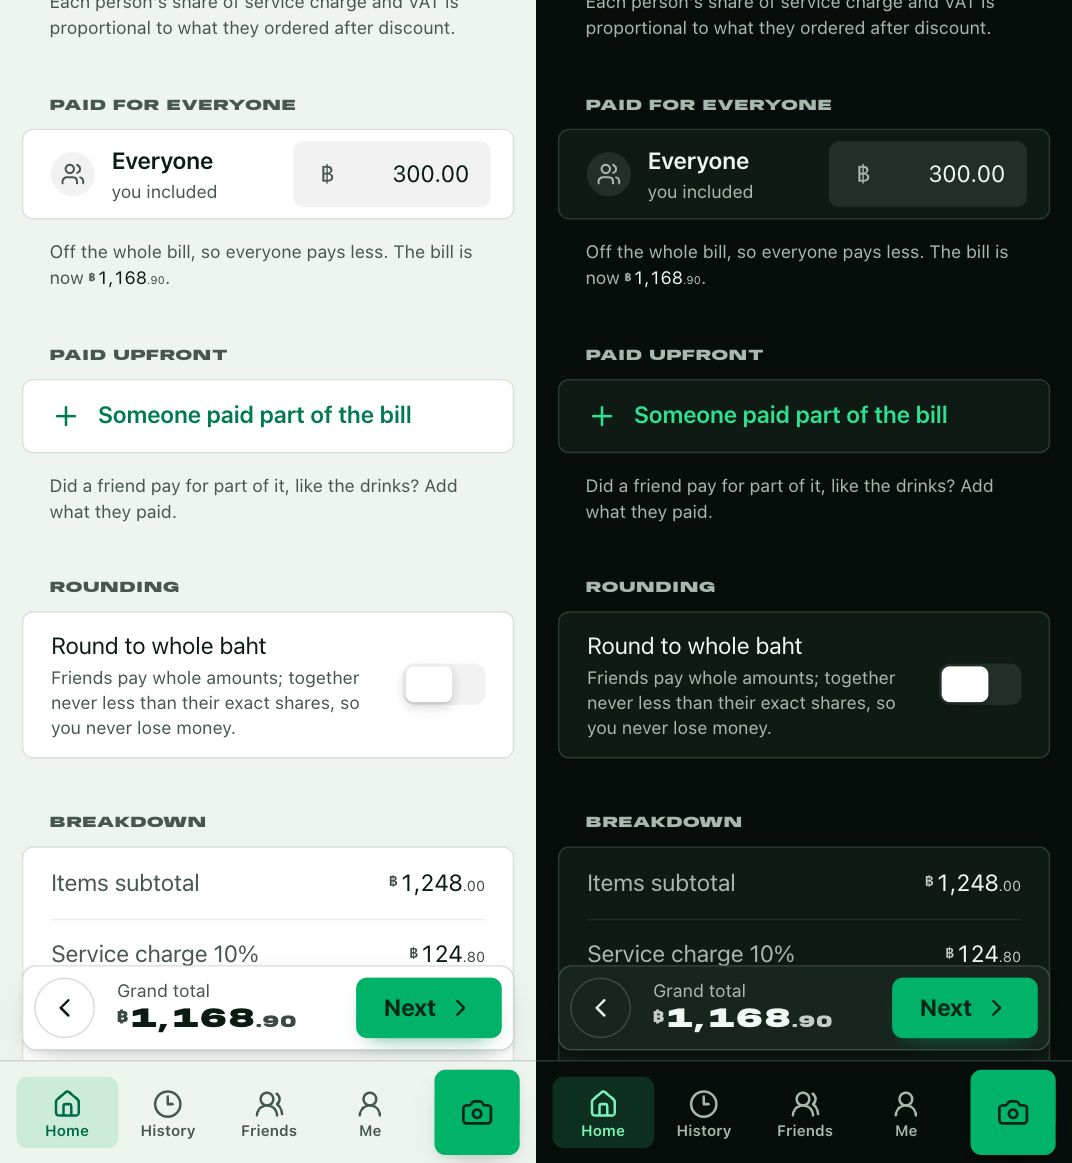
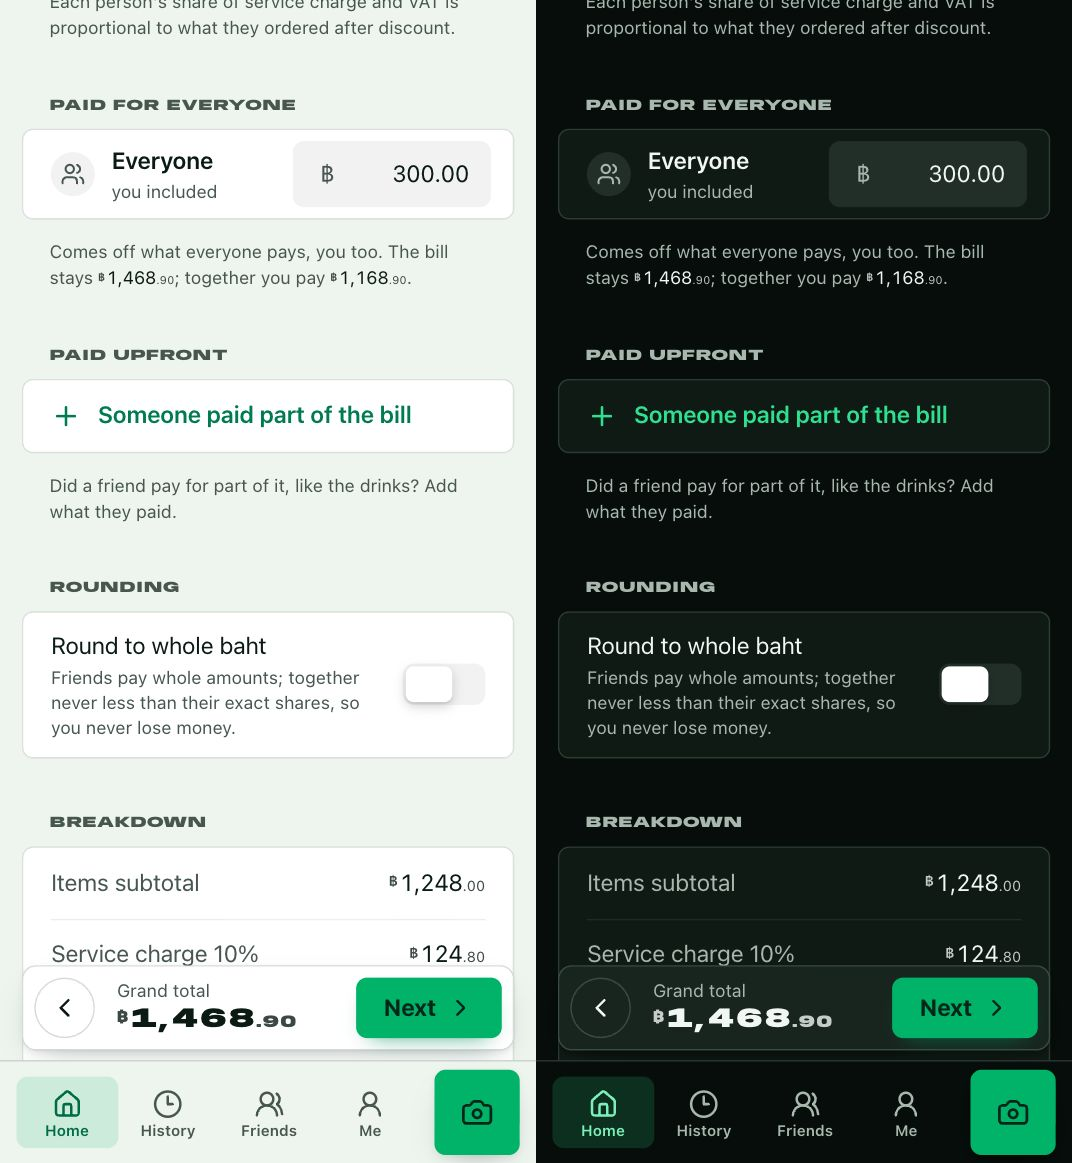
Paid for everyone: bill stays whole, comes off what each person pays (#37)
* Paid for everyone: the bill stays whole; it comes off what each person pays

Like Paid upfront: the grand total (with its service charge and VAT) is
the whole bill, each person's share is worked out from it, then their part
of what was paid for everyone comes off what they pay, the organiser's too.
Paying payers directly and rounding to whole baht take it into account.
README and screenshot updated.

* README: tidy a stray space

---------

diff --git a/src/lib/calc.ts b/src/lib/calc.ts
@@ -24,7 +24,7 @@ export interface CalcInput {
   prepaid?: Prepaid[];
   /** The receipt's printed rounding line, used while the subtotal still matches. */
   receiptRounding?: ReceiptRounding;
-  /** Paid for everyone (deposit, voucher): off the whole bill after service and VAT. */
+  /** Paid for everyone (deposit, voucher): comes off what everyone pays, after their share is worked out. */
   forEveryone?: number;
   /**
    * When an amount doesn't divide evenly, the leftover satang go to the
@@ -101,14 +101,14 @@ export interface PersonResult {
   vat: number;
   /** share of the receipt's own rounding line (usually 0) */
   rounding: number;
-  /** their part of what was paid for everyone */
+  /** their part of what was paid for everyone (comes off what they pay, like `prepaid`) */
   forEveryone: number;
-  /** exact share of the bill (after what was paid for everyone) */
+  /** exact share of the bill */
   total: number;
   /** what they paid towards the bill themselves (friends only; needs an organiser) */
   prepaid: number;
   /**
-   * What they're asked to pay: `total − prepaid`, negative when the organiser
+   * What they're asked to pay: `total − prepaid − forEveryone`, negative when the organiser
    * owes them money back. With rounding on, payers pay whole units (some up,
    * some down) and the organiser's amount is what's left of the bill (never
    * more than their exact share), shown to the nearest whole unit.
@@ -125,7 +125,7 @@ export interface CalcResult {
   vat: number;
   /** the receipt's own rounding line, when used (usually 0) */
   rounding: number;
-  /** paid for everyone, taken off the bill (never more than the bill) */
+  /** paid for everyone (never more than the bill): the bill stays `total`, it comes off what people pay */
   forEveryone: number;
   total: number;
   people: PersonResult[];
@@ -225,10 +225,10 @@ export function calculate(input: CalcInput): CalcResult {
   const vat = input.vat.enabled ? (asPrinted(input.vat) ?? applyBp(discountedSubtotal + service, input.vat.rateBp)) : 0;
   const rounding =
     input.receiptRounding && input.receiptRounding.base === discountedSubtotal ? input.receiptRounding.amount : 0;
-  const gross = discountedSubtotal + service + vat + rounding;
-  // Paid for everyone comes off last, so it doesn't change service or VAT.
-  const forEveryone = Math.max(0, Math.min(input.forEveryone ?? 0, gross));
-  const total = gross - forEveryone;
+  const total = discountedSubtotal + service + vat + rounding;
+  // Paid for everyone doesn't change the bill (or its service and VAT): like
+  // a payment, it comes off what each person pays.
+  const forEveryone = Math.max(0, Math.min(input.forEveryone ?? 0, total));
 
   const n = people.length;
   const personIndex = new Map(people.map((p, i) => [p.id, i]));
@@ -284,7 +284,7 @@ export function calculate(input: CalcInput): CalcResult {
       if (me >= 0) {
         // Everyone's share is an equal split of the grand total with the
         // organiser's the smaller one; the difference goes in their items.
-        const each = allocate(gross, ones, 0, me);
+        const each = allocate(total, ones, 0, me);
         results.forEach((r, i) => {
           const delta = each[i] - (r.discounted + r.service + r.vat + r.rounding);
           r.discounted += delta;
@@ -327,17 +327,14 @@ export function calculate(input: CalcInput): CalcResult {
     }
     results.forEach((r) => (r.total = r.discounted + r.service + r.vat + r.rounding));
     if (forEveryone > 0) {
-      // Everyone's share gets smaller: equally when splitting equally (shares
-      // stay equal), else in proportion to their share. The organiser gets
-      // the bigger part of the money off.
+      // Each person's part: equal when splitting equally (what's left to pay
+      // stays equal), else in proportion to their share. The organiser gets
+      // the bigger part of uneven satang.
       const off =
         mode === "equal"
-          ? allocate(total, equalWeights(n), 0, me).map((net, i) => results[i].total - net)
+          ? allocate(total - forEveryone, equalWeights(n), 0, me).map((left, i) => results[i].total - left)
           : allocate(forEveryone, results.map((r) => Math.max(0, r.total)), 0, -1, me);
-      results.forEach((r, i) => {
-        r.forEveryone = off[i];
-        r.total -= off[i];
-      });
+      results.forEach((r, i) => (r.forEveryone = off[i]));
     }
   }
 
@@ -351,7 +348,9 @@ export function calculate(input: CalcInput): CalcResult {
     }
   }
   const prepaidTotal = payers.reduce((s, r) => s + r.prepaid, 0);
-  for (const r of results) r.payable = r.total - r.prepaid;
+  // What each still owes: their share less what was paid for them (paid for everyone, or upfront).
+  const owes = (r: PersonResult) => r.total - r.prepaid - r.forEveryone;
+  for (const r of results) r.payable = owes(r);
   if (input.roundUp && payers.length > 0) {
     const unit = wholeUnit(input.currency);
     // Split equally: everyone's share is the same whole amount, the
@@ -361,11 +360,8 @@ export function calculate(input: CalcInput): CalcResult {
     const each = mode === "equal" && organiser && unit > 1 ? equalWholeShare(results, unit) : null;
     const whole =
       each !== null
-        ? payers.map((r) => Math.ceil((each - r.prepaid) / unit) * unit)
-        : roundToWholeUnits(
-            payers.map((r) => r.total - r.prepaid),
-            unit,
-          );
+        ? payers.map((r) => Math.ceil((each - r.prepaid - r.forEveryone) / unit) * unit)
+        : roundToWholeUnits(payers.map(owes), unit);
     payers.forEach((r, i) => (r.payable = whole[i]));
     // The organiser paid the rest of the bill: what's left after the friends
     // pay is never more than their exact share (they never lose money). It's
@@ -373,16 +369,18 @@ export function calculate(input: CalcInput): CalcResult {
     if (organiser && each !== null) {
       // Split equally: the organiser's share is the same as everyone's (what
       // they really pay after the friends' payments is never more than that).
-      organiser.payable = each;
+      organiser.payable = each - organiser.forEveryone;
     } else if (organiser) {
-      const left = Math.round((total - prepaidTotal - payers.reduce((s, r) => s + r.payable, 0)) / unit) * unit;
+      // What the organiser paid at the table (the bill less what was already
+      // paid for everyone or upfront) less what the friends pay them.
+      const left = Math.round((total - forEveryone - prepaidTotal - payers.reduce((s, r) => s + r.payable, 0)) / unit) * unit;
       // Friends' rounding up can leave an organiser who ate (almost) nothing
       // slightly ahead; show that as ฿0, not a negative share.
-      organiser.payable = organiser.total >= 0 ? Math.max(0, left) : left || 0;
+      organiser.payable = owes(organiser) >= 0 ? Math.max(0, left) : left || 0;
     }
   }
   const collected = results.reduce((s, r) => s + r.payable, 0);
-  const roundingExtra = payers.reduce((s, r) => s + (r.payable - (r.total - r.prepaid)), 0);
+  const roundingExtra = payers.reduce((s, r) => s + (r.payable - owes(r)), 0);
 
   return {
     lines,

diff --git a/src/lib/calc.test.ts b/src/lib/calc.test.ts
@@ -530,31 +530,48 @@ describe("paid for everyone (deposit, voucher)", () => {
     { id: "mint", name: "Mint" },
     { id: "ploy", name: "Ploy" },
   ];
+  const pays = (r: ReturnType<typeof calculate>) => r.people.map((p) => p.payable);
 
-  it("takes it off everyone's share equally when splitting equally, the organiser's too", () => {
+  it("keeps the bill whole and takes it off what everyone pays, equally when splitting equally, the organiser too", () => {
     const r = calculate(base({ mode: "equal", people: trio, items: [item("set", 120000, [])], forEveryone: 30000 }));
-    expect([r.forEveryone, r.total]).toEqual([30000, 90000]);
-    expect(totals(r)).toEqual([30000, 30000, 30000]);
+    expect([r.total, r.forEveryone]).toEqual([120000, 30000]);
+    expect(totals(r)).toEqual([40000, 40000, 40000]);
     expect(r.people.map((p) => p.forEveryone)).toEqual([10000, 10000, 10000]);
-    expect(r.people.map((p) => p.payable)).toEqual([30000, 30000, 30000]);
+    expect(pays(r)).toEqual([30000, 30000, 30000]);
   });
 
-  it("splits it in proportion to what each person had", () => {
+  it("splits it in proportion to each person's share", () => {
     const its = [item("a", 60000, ["me"]), item("b", 40000, ["mint"]), item("c", 20000, ["ploy"])];
     const r = calculate(base({ people: trio, items: its, forEveryone: 30000 }));
+    expect(totals(r)).toEqual([60000, 40000, 20000]);
     expect(r.people.map((p) => p.forEveryone)).toEqual([15000, 10000, 5000]);
-    expect(totals(r)).toEqual([45000, 30000, 15000]);
-    expect(sum(totals(r))).toBe(r.total);
+    expect(pays(r)).toEqual([45000, 30000, 15000]);
   });
 
-  it("comes off after service and VAT, and never more than the bill", () => {
+  it("leaves service and VAT on the whole bill, and never comes to more than the bill", () => {
     const svc = { enabled: true, rateBp: 1000 };
     const vat = { enabled: true, rateBp: 700 };
     const one = [item("x", 100000, ["me", "mint", "ploy"])];
-    const r = calculate(base({ people: trio, items: one, service: svc, vat, forEveryone: 17700 }));
-    expect([r.service, r.vat, r.forEveryone, r.total]).toEqual([10000, 7700, 17700, 100000]);
+    const r = calculate(base({ people: trio, items: one, service: svc, vat, forEveryone: 30000 }));
+    expect([r.service, r.vat, r.total, r.forEveryone, sum(pays(r))]).toEqual([10000, 7700, 117700, 30000, 87700]);
     const all = calculate(base({ people: trio, items: one, forEveryone: 999999 }));
-    expect([all.forEveryone, all.total, ...totals(all)]).toEqual([100000, 0, 0, 0, 0]);
+    expect([all.forEveryone, all.total, ...pays(all)]).toEqual([100000, 100000, 0, 0, 0]);
+  });
+
+  it("works with Paid upfront: a friend's share less both", () => {
+    const r = calculate(base({ mode: "equal", people: trio, items: [item("set", 120000, [])], forEveryone: 30000, prepaid: [{ personId: "mint", amount: 5000 }] }));
+    expect(pays(r)).toEqual([30000, 25000, 30000]);
+  });
+
+  it("rounds friends to whole baht without the organiser losing money", () => {
+    const its = [item("x", 100000, ["me", "mint", "ploy"])];
+    const r = calculate(base({ people: trio, items: its, forEveryone: 10000, roundUp: true, currency: "THB" }));
+    const owes = r.people.map((p) => p.total - p.forEveryone);
+    r.people.slice(1).forEach((p, i) => {
+      expect(p.payable % 100).toBe(0);
+      expect(p.payable).toBeGreaterThanOrEqual(owes[i + 1] - 99);
+    });
+    expect(r.people[1].payable + r.people[2].payable).toBeGreaterThanOrEqual(owes[1] + owes[2]);
   });
 
   it("gives the organiser the bigger part of uneven satang", () => {

diff --git a/src/components/PersonCard.tsx b/src/components/PersonCard.tsx
@@ -32,8 +32,8 @@ export function PersonCard({
 }) {
   const [open, setOpen] = useState(defaultOpen);
   const toggle = () => setOpen((v) => !v);
-  // What they owe before rounding: their share less anything they paid upfront.
-  const exact = person.total - person.prepaid;
+  // What they owe before rounding: their share less what was paid for everyone and anything they paid upfront.
+  const exact = person.total - person.prepaid - person.forEveryone;
   return (
     // Paid people stay fully visible: the tick and "Paid" say they've paid.
     <li>
@@ -119,16 +119,14 @@ export function PersonCard({
                 v={<Money value={person.rounding} currency={currency} tone={person.rounding < 0 ? "negative" : undefined} />}
               />
             )}
+            {(person.prepaid > 0 || person.forEveryone > 0) && (
+              <Row k="Share" v={<Money value={person.total} currency={currency} />} />
+            )}
             {person.forEveryone > 0 && (
               <Row k="Paid for everyone" v={<Money value={person.forEveryone} currency={currency} tone="negative" />} />
             )}
-            {person.prepaid > 0 && (
-              <>
-                <Row k="Share" v={<Money value={person.total} currency={currency} />} />
-                <Row k="Paid upfront" v={<Money value={person.prepaid} currency={currency} tone="negative" />} />
-              </>
-            )}
-            {person.payable !== person.total - person.prepaid ? (
+            {person.prepaid > 0 && <Row k="Paid upfront" v={<Money value={person.prepaid} currency={currency} tone="negative" />} />}
+            {person.payable !== exact ? (
               <>
                 <Row k="Exact amount" v={<Money value={exact} currency={currency} />} />
                 <Row
@@ -145,7 +143,7 @@ export function PersonCard({
                 />
                 <FinalRow person={person} currency={currency} />
               </>
-            ) : person.prepaid > 0 ? (
+            ) : person.prepaid > 0 || person.forEveryone > 0 ? (
               <FinalRow person={person} currency={currency} />
             ) : (
               <Row k="Total" v={<Money value={person.total} currency={currency} />} strong />

diff --git a/src/components/wizard/ForEveryoneSection.tsx b/src/components/wizard/ForEveryoneSection.tsx
@@ -7,8 +7,9 @@ import { ICON, Money, MoneyInput, Section } from "../ui";
 import type { SetDoc } from "./Wizard";
 
 /**
- * "Paid for everyone": a deposit, voucher or gift card paid before, taken off
- * the whole bill after service and VAT, so everyone pays less, the organiser too.
+ * "Paid for everyone": a deposit, voucher or gift card paid before. The bill
+ * (with its service and VAT) stays whole; like Paid upfront, it comes off
+ * what each person pays, the organiser's too.
  */
 export function ForEveryoneSection({ doc, setDoc, calc }: { doc: SplitDoc; setDoc: SetDoc; calc: CalcResult }) {
   if (doc.people.length < 2) return null;
@@ -33,10 +34,11 @@ export function ForEveryoneSection({ doc, setDoc, calc }: { doc: SplitDoc; setDo
       <p className="px-5 text-[13px] text-ink-2">
         {calc.forEveryone > 0 ? (
           <>
-            Off the whole bill, so everyone pays less. The bill is now <Money value={calc.total} currency={doc.currency} className="text-ink" />.
+            Comes off what everyone pays, you too. The bill stays <Money value={calc.total} currency={doc.currency} className="text-ink" />; together you
+            pay <Money value={calc.total - calc.forEveryone} currency={doc.currency} className="text-ink" />.
           </>
         ) : (
-          "A deposit, voucher or gift card paid before? It comes off the whole bill, so everyone pays less."
+          "A deposit, voucher or gift card paid before? It comes off what everyone pays, you too."
         )}
       </p>
     </Section>

diff --git a/src/lib/settle.ts b/src/lib/settle.ts
@@ -35,7 +35,8 @@ export function paidAtRestaurant(doc: SplitDoc, calc: CalcResult = calculate(doc
     }
   }
   const others = [...paid.values()].reduce((a, b) => a + b, 0);
-  if (ids.has(ORGANISER_ID)) paid.set(ORGANISER_ID, Math.max(0, calc.total - others));
+  // What was paid for everyone (deposit, voucher) was already paid, before the table.
+  if (ids.has(ORGANISER_ID)) paid.set(ORGANISER_ID, Math.max(0, calc.total - calc.forEveryone - others));
   return paid;
 }
 
@@ -47,7 +48,7 @@ export function paidAtRestaurant(doc: SplitDoc, calc: CalcResult = calculate(doc
  */
 export function transfers(doc: SplitDoc, calc: CalcResult = calculate(doc)): Transfer[] {
   const paid = paidAtRestaurant(doc, calc);
-  const net = calc.people.map((r) => ({ id: r.personId, net: (paid.get(r.personId) ?? 0) - r.total }));
+  const net = calc.people.map((r) => ({ id: r.personId, net: (paid.get(r.personId) ?? 0) - (r.total - r.forEveryone) }));
   const debtors = net.filter((x) => x.net < 0).map((x) => ({ id: x.id, left: -x.net })).sort((a, b) => b.left - a.left || a.id.localeCompare(b.id));
   const creditors = net.filter((x) => x.net > 0).map((x) => ({ id: x.id, left: x.net })).sort((a, b) => b.left - a.left || a.id.localeCompare(b.id));
   const unit = doc.roundUp ? wholeUnit(doc.currency) : 1;

diff --git a/src/lib/settle.test.ts b/src/lib/settle.test.ts
@@ -54,6 +54,20 @@ describe("several payers: who pays whom", () => {
     for (const p of d.people) expect(net.get(p.id) ?? 0).toBe(25000);
   });
 
+  it("with something paid for everyone, each pays their share less their part of it", () => {
+    // ฿1,000, ฿200 paid for everyone (a voucher): ฿250 each, less ฿50 = ฿200 each.
+    // Mint paid ฿400 at the table, so I paid ฿1,000 − ฿200 − ฿400 = ฿400.
+    const d = doc(100000, 40000, { forEveryone: 20000 });
+    expect(Object.fromEntries(paidAtRestaurant(d))).toEqual({ mint: 40000, me: 40000 });
+    const ts = transfers(d);
+    const net = new Map<string, number>([...paidAtRestaurant(d)]);
+    for (const t of ts) {
+      net.set(t.from, (net.get(t.from) ?? 0) + t.amount);
+      net.set(t.to, (net.get(t.to) ?? 0) - t.amount);
+    }
+    for (const p of d.people) expect(net.get(p.id) ?? 0).toBe(20000);
+  });
+
   it("the organiser pays back a friend who paid more than the organiser is owed", () => {
     // ฿1,000; Mint paid ฿900: I owe Mint ฿250 too.
     const ts = transfers(doc(100000, 90000));

diff --git a/src/components/Breakdown.tsx b/src/components/Breakdown.tsx
@@ -5,7 +5,7 @@ import { Money } from "./ui";
 
 const pct = (bp: number) => `${bp / 100}%`;
 
-/** Bill-level breakdown: items → discount → service → VAT → paid for everyone → total. */
+/** Bill-level breakdown: items → discount → service → VAT → total. */
 export function Breakdown({
   doc,
   calc,
@@ -26,7 +26,6 @@ export function Breakdown({
   if (doc.service.enabled) rows.push({ k: `Service charge ${pct(doc.service.rateBp)}`, v: <Money value={calc.service} currency={c} /> });
   if (doc.vat.enabled) rows.push({ k: `VAT ${pct(doc.vat.rateBp)}`, v: <Money value={calc.vat} currency={c} /> });
   if (calc.rounding) rows.push({ k: "Rounding (as on the receipt)", v: <Money value={calc.rounding} currency={c} tone={calc.rounding < 0 ? "negative" : undefined} /> });
-  if (calc.forEveryone > 0) rows.push({ k: "Paid for everyone", v: <Money value={calc.forEveryone} currency={c} tone="negative" /> });
   return (
     <dl className="card rows">
       {rows.map(({ k, v }) => (

diff --git a/src/components/Transfers.tsx b/src/components/Transfers.tsx
@@ -10,7 +10,7 @@ import { Avatar, ICON, Money, cx } from "./ui";
  * When friends pay each payer directly, a person's row shows their share of
  * the bill (what they pay or are paid back is in "Who pays whom").
  */
-export const asShare = (p: PersonResult): PersonResult => ({ ...p, prepaid: 0, payable: p.total });
+export const asShare = (p: PersonResult): PersonResult => ({ ...p, prepaid: 0, payable: p.total - p.forEveryone });
 
 /** One "A → B ฿X" row inside a list card (wrap rows in `<ul className="card rows">`). */
 export function TransferRow({

diff --git a/src/components/SharedView.tsx b/src/components/SharedView.tsx
@@ -593,7 +593,7 @@ export function SharedView({
             })}
           </ul>
           <TapHint mode={doc.mode} />
-          {calc.people.some((p) => p.payable !== p.total - p.prepaid) && (
+          {calc.people.some((p) => p.payable !== p.total - p.prepaid - p.forEveryone) && (
             <p className="px-5 text-[13px] text-ink-2">
               Amounts are rounded to whole {wholeUnitName(doc.currency)}:{" "}
               {doc.mode === "equal" ? (

diff --git a/README.md b/README.md
@@ -25,7 +25,7 @@ The link preview friends see in chat:
 - **Which items had the discount?** When a promotion covers only some items ("Drinks 20%"), the scan reads the receipt's own marks and puts the discount on those items, if they add up to it exactly. Not sure? Enter the printed amount and **Find the items for me** works out which items it is exactly 5–50% of: the drinks before a coincidental mix, your own items before a friend's, and it ticks them only when one set fits.
 - **Discount, service charge, VAT** (off by default), and **round to whole baht**: friends pay whole amounts and together never less than their exact shares, so the organiser never loses money. With "split equally", everyone's share is the same whole amount.
 - **Leftover satang go to friends:** when an amount doesn't divide evenly (฿50 / 3), the organiser gets the smaller part (฿16.66, friends ฿16.67). New splits only; older bills keep their amounts.
-- **Paid for everyone:** a deposit, voucher or gift card paid before comes off the whole bill after service charge and VAT, so everyone pays less, you included (split equally, or in proportion to what each person had).
+- **Paid for everyone:** a deposit, voucher or gift card paid before. Like Paid upfront, the bill stays whole (service charge and VAT on all of it) and it comes off what each person pays, you included: equally when splitting equally, else in proportion to each share.
 - **Several payers:** a friend who paid part of the bill (e.g. the drinks) either settles with you (pays that much less, or gets money back), or everyone pays each payer directly: the app works out the fewest transfers ("Ploy → Mint ฿150"), each with the payer's own PromptPay QR, its own tick and slip check.
 - **Bill date** with the app's own calendar: the day you make the split (scanning a receipt doesn't change it).
 - **Friends and groups** saved on the phone; "Who's eating with you?" and "Same as last time" pick them quickly.
@@ -33,7 +33,7 @@ The link preview friends see in chat:
 <p>
   <img src="docs/screenshots/items.jpg" alt="Items on a new split, light and dark" width="380">
   <img src="docs/screenshots/discount.jpg" alt="Find the items for me: the discount's items picked from the printed amount, light and dark" width="380">
-  <img src="docs/screenshots/for-everyone.jpg" alt="Paid for everyone: ฿300 off the whole bill, you included, light and dark" width="380">
+  <img src="docs/screenshots/for-everyone.jpg" alt="Paid for everyone: ฿300 off what everyone pays, you included; the bill stays whole, light and dark" width="380">
 </p>
 
 **Sharing and getting paid**
@@ -116,7 +116,7 @@ All of them are listed in [`.env.example`](.env.example).
 ## How it works
 
 - **Several payers** — `src/lib/settle.ts`: what each person paid at the table minus their share, then the fewest transfers (largest debts to largest credits). Transfer payments are recorded under `t:{from}:{to}` keys; History and big bills use each friend's money with the organiser.
-- **Maths** — `src/lib/calc.ts`, pure and integer-only (satang). Items → discount → service charge on the discounted subtotal → VAT on (subtotal + service) → anything paid for everyone off the total. Shares use largest-remainder allocation, so everyone's amounts always add up exactly (in new splits the leftover units go to the friends, never the organiser); uneven shares are weights on the same allocation. Rounding, paid-upfront and the organiser's share are applied on top, never letting the organiser lose money.
+- **Maths** — `src/lib/calc.ts`, pure and integer-only (satang). Items → discount → service charge on the discounted subtotal → VAT on (subtotal + service); what was paid for everyone comes off each person's share like a payment, the bill stays whole. Shares use largest-remainder allocation, so everyone's amounts always add up exactly (in new splits the leftover units go to the friends, never the organiser); uneven shares are weights on the same allocation. Rounding, paid-upfront and the organiser's share are applied on top, never letting the organiser lose money.
 - **Scanning** — the phone fixes the photo's rotation and sends a ~2048 px JPEG to `POST /api/scan`. `src/lib/server/gemini.ts` races a chain of Gemini models (best first: 3.8 Flash, 3.7 Flash, 3.6 Flash, 3.5 Flash, 3.5 Flash-Lite, 3.1 Flash-Lite): the best one and Flash-Lite start together, others join when one fails or is slow. Flash-Lite's answer is only taken straight away if its numbers add up. A garbled answer or a refused photo counts as that model failing; if a model finds no items, a second one is asked, and two agreeing settles it. Busy, out-of-quota or timed-out models cool down (shared via Redis). Strict JSON schema, temperature 0, lowest thinking level. Results go through `src/lib/scanFilter.ts` and `applyScan`. See [`docs/scan-reliability.md`](docs/scan-reliability.md).
 - **Discount items** — `src/lib/discountMatch.ts`: a percentage leaves a fingerprint (10% of ฿599 is exactly ฿59.90), so it searches for the sets of items whose total gives exactly the printed discount, folds sets that only swap same-priced items, and ranks one kind of thing (all drinks or all food) and the organiser's items first.
 - **Pay speed** — each paid tick stores its time in Redis, and `payTimes` in `src/lib/owed.ts` measures each bill from `payFrom` (when it was shared: the server keeps that time; bills shared before 10 Nov 2026 use when their draft was started, or the start of their day in Thailand if later) to the tick, on the server from the organiser's bills (`/o/{id}/fastest`, preview `/api/og/f/{id}`); `/fastest` opens this phone's list there. **Use receipt times** (`POST /api/boards/{id}/receipt-times`) reads each receipt photo once, keeps its time with the bill, and carries on where the last press stopped. The organiser's phone can correct when someone paid (say, from a bank statement) with `PUT /api/boards/{id}/paid-times`, for people already ticked paid.
